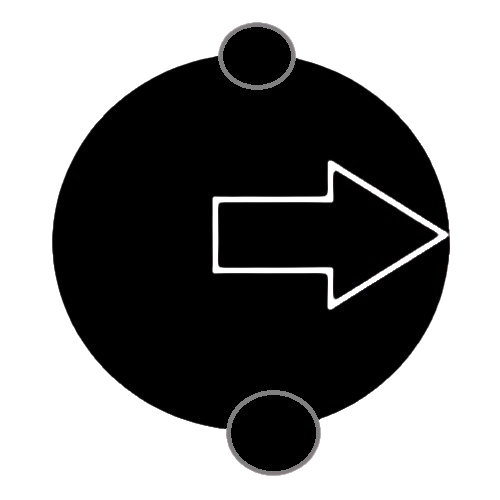
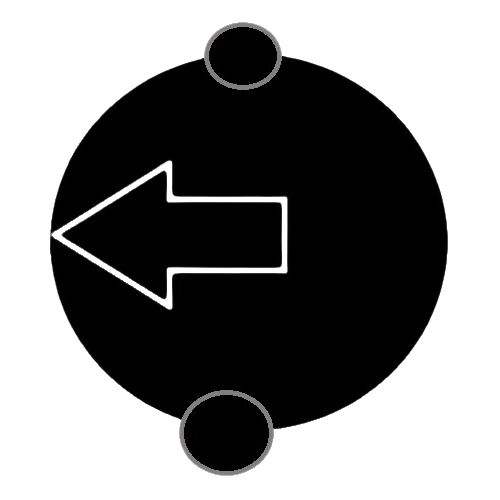
correcao de bugs

diff --git a/script.js b/script.js
@@ -1,7 +1,8 @@
 
 const areaMapa = document.querySelector('#area');
-
+let ligado = false;
 const listaAcoes = [];
+const posicoes = [];
 
 const Jogador = {
     y: 0,
@@ -10,8 +11,8 @@ const Jogador = {
    
    
     arrumaAngulo: function(){
-        if (Jogador.anguloAtual <= -360){
-            Jogador.anguloAtual = 0;
+        if (Jogador.anguloAtual < 0){
+            Jogador.anguloAtual +=360;
         }
         else if (Jogador.anguloAtual >=360){
             Jogador.anguloAtual = 0;
@@ -37,13 +38,13 @@ const Jogador = {
     andar: function(){
         angl = Math.abs(Jogador.anguloAtual);
         switch (angl){
-              case 0:
+            case 180:
                 if (Jogador.x+1<= 49) {Jogador.x++};
                 break
             case 90:
                 if (Jogador.y-5>= 0) {Jogador.y-=5};
                 break
-            case 180:
+            case 0:
                 if (Jogador.x-1>=0) {Jogador.x--};
                 break
             case 270:
@@ -51,7 +52,7 @@ const Jogador = {
                 break
             
         }
-        
+        if (ligado) { posicoes.push(Jogador.x + Jogador. y); }
         atualizarPos();
     }
 
@@ -65,14 +66,23 @@ const Mapa = {
         for (let i = 0; i < Mapa.tam; i++) {
                 const celula = document.createElement("span");
                 celula.classList.add("celula");
+                for (let j=0; j < posicoes.length; j++){
+                    if (i === posicoes[j]){
+                        celula.classList.add("acesa");
+                    }
+                }
                 celula.id = `celula-${i}`;
                 areaMapa.appendChild(celula);
         }
+        
         document.getElementById(`celula-${Mapa.checkpoint}`).style.backgroundImage ="url(https://i.pinimg.com/736x/7a/25/27/7a2527042f10403dbbe74146e93640b7.jpg)";
     },
     desenharJogador: function(x,y,anguloAtual){
         Jpos = x + y;
         celulaJogador= document.getElementById(`celula-${Jpos}`);
+        if (ligado) {
+            celulaJogador.style.ba
+        }
         const imgJogador = document.createElement("span");
         imgJogador.classList = ("jogador");
         celulaJogador.appendChild(imgJogador);
@@ -80,6 +90,7 @@ const Mapa = {
         if (Jpos == Mapa.checkpoint){
             alert("Voce ganhou!");
         }
+        
     }
     
 }
@@ -146,7 +157,15 @@ function fazerAcoes(){
     
 }
 function acender(){
-    
+    if (ligado) {
+      ligado = false;
+      //botAcende.style.backgroundImage= url("botaoAcendeLigado.png");
+      botAcende.style.backgroundColor = "white";
+    } else {
+      ligado = true;
+      botAcende.style.backgroundColor = "yellow";
+      posicoes.push(Jogador.x + Jogador. y);
+    }
 }
 function deletar(){
     if (listaAcoes.length === 0) {
@@ -175,4 +194,5 @@ const botDeletar = document.getElementById("delete");
 botDeletar.addEventListener('click', deletar);
 
 // "FUNCAO" principal do codigo
+
 atualizarPos();

diff --git a/style.css b/style.css
@@ -35,9 +35,12 @@ body {
 .celula {
      width: 48px;
     height: 48px;
-    background-image: url(https://th.bing.com/th/id/OIP.2v--1Tbp7W6Kbfe2IM5wZQHaE8?w=268&h=180&c=7&r=0&o=7&pid=1.7&rm=3);
+    background-image: url(fundoteste.png);
     background-size: cover;
     
+}
+.celula.acesa{
+   background-image: url(fundocoloridoteste.png);
 }
 .titulo {
     display: flex;
@@ -102,8 +105,8 @@ main {
 }
 
 .caixaacoes span{
-    height: 10%;
-    width: 5%; 
+    height: 50px;
+    width: 50px; 
 }
 
 #rotaE{
